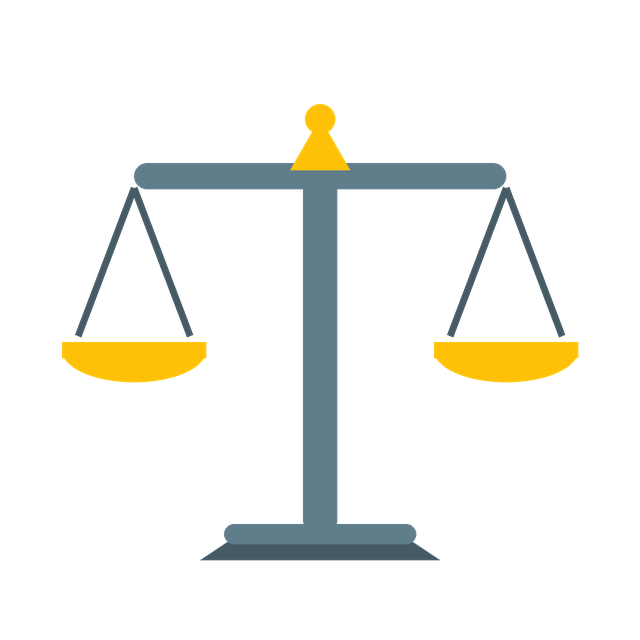
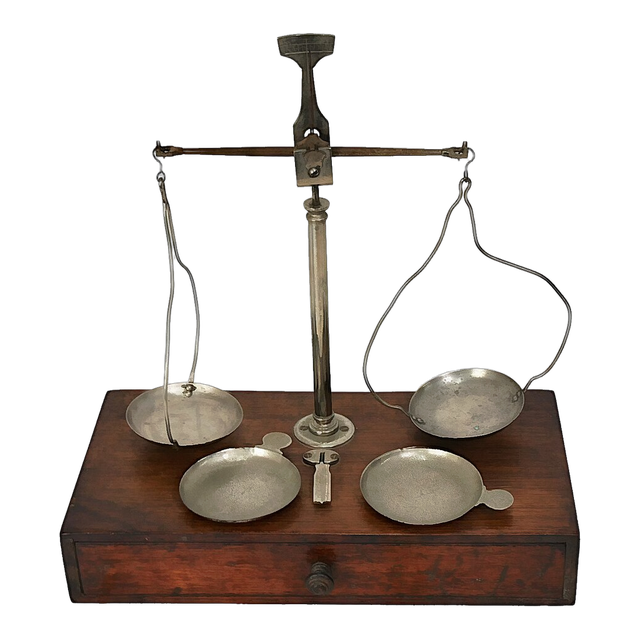
科目頁三圖示改真實版：地理=真實地球衛星照(NASA)、政治/社會=真實天平照(CC0)、生物=DNA 3D雙螺旋圖；footer 補來源

diff --git a/t/科目.html b/t/科目.html
@@ -120,7 +120,7 @@ td.zcol2,td.zcol3{box-shadow:2px 0 0 #fff!important}
 tr:nth-child(even) td.zcol2,tr:nth-child(even) td.zcol3{box-shadow:2px 0 0 #f7fcf8!important}
 
 </style></head>
-<body><div class="wrap"><a class="back" href="../index.html">← 回語言對照表</a><h1>科目</h1><div class="sub">點 🔊 聽發音 · 台語／客語若系統沒語音會用拼音朗讀 · 表格可左右滑：<b>圖片＋繁體中文固定</b>不動<br>語言分兩大類，<b>右上角可切換</b>：中華語言（簡體中文·台語·客語）／常見語言（美式英文·英式英文·日文·韓文）</div><div id="catbar"></div><div id="box"><div class="status">載入中…</div></div><div class="note">資料來源：Google 試算表（即時讀取；若讀不到會自動用站內備份快照）</div><div class="note">圖片來源：教室照片：Gilbert Ndihokubwayo / Wikimedia Commons（CC BY-SA 4.0）</div></div><script>
+<body><div class="wrap"><a class="back" href="../index.html">← 回語言對照表</a><h1>科目</h1><div class="sub">點 🔊 聽發音 · 台語／客語若系統沒語音會用拼音朗讀 · 表格可左右滑：<b>圖片＋繁體中文固定</b>不動<br>語言分兩大類，<b>右上角可切換</b>：中華語言（簡體中文·台語·客語）／常見語言（美式英文·英式英文·日文·韓文）</div><div id="catbar"></div><div id="box"><div class="status">載入中…</div></div><div class="note">資料來源：Google 試算表（即時讀取；若讀不到會自動用站內備份快照）</div><div class="note">圖片來源：地球：NASA（公有領域）｜天平：HelgeRieder / Wikimedia Commons（CC0）｜DNA：Azcolvin429·mstroeck / Wikimedia Commons（CC BY-SA 3.0）</div></div><script>
 // 語言名稱顯示標題（括號內用該語言自己的寫法）— 孝瓏 2026-09-16「頂端請加()」
 const LANG_LABEL={'簡體中文':'簡體中文（简体中文）',
  '美式英文':'美式英文（American English）',
